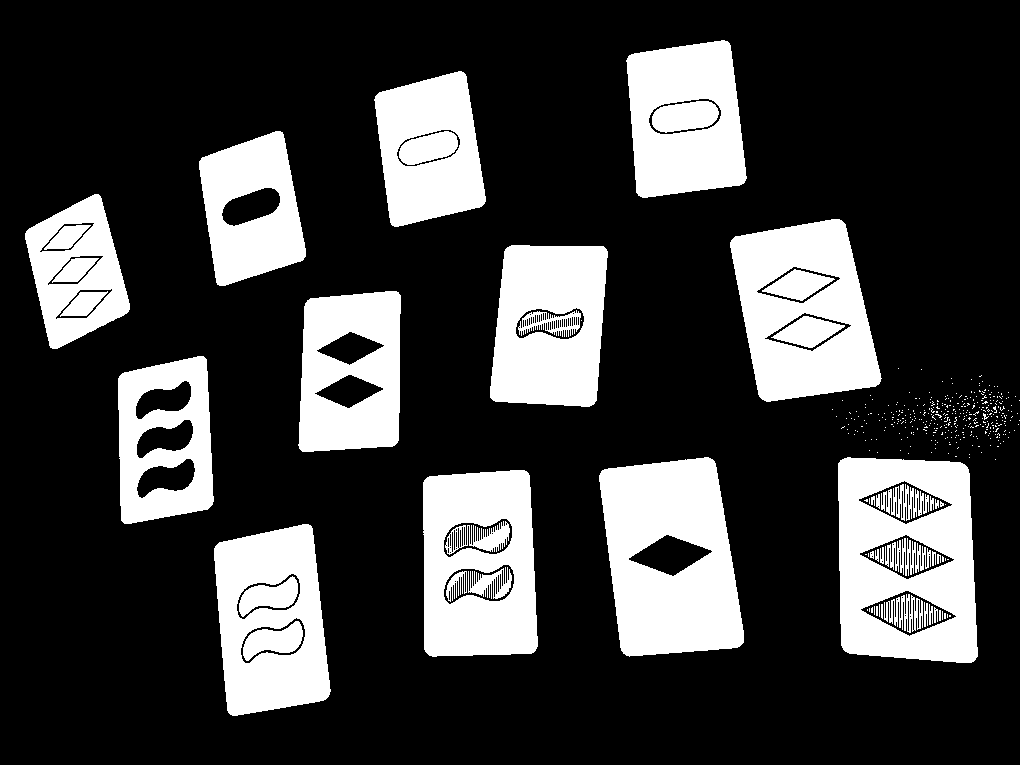
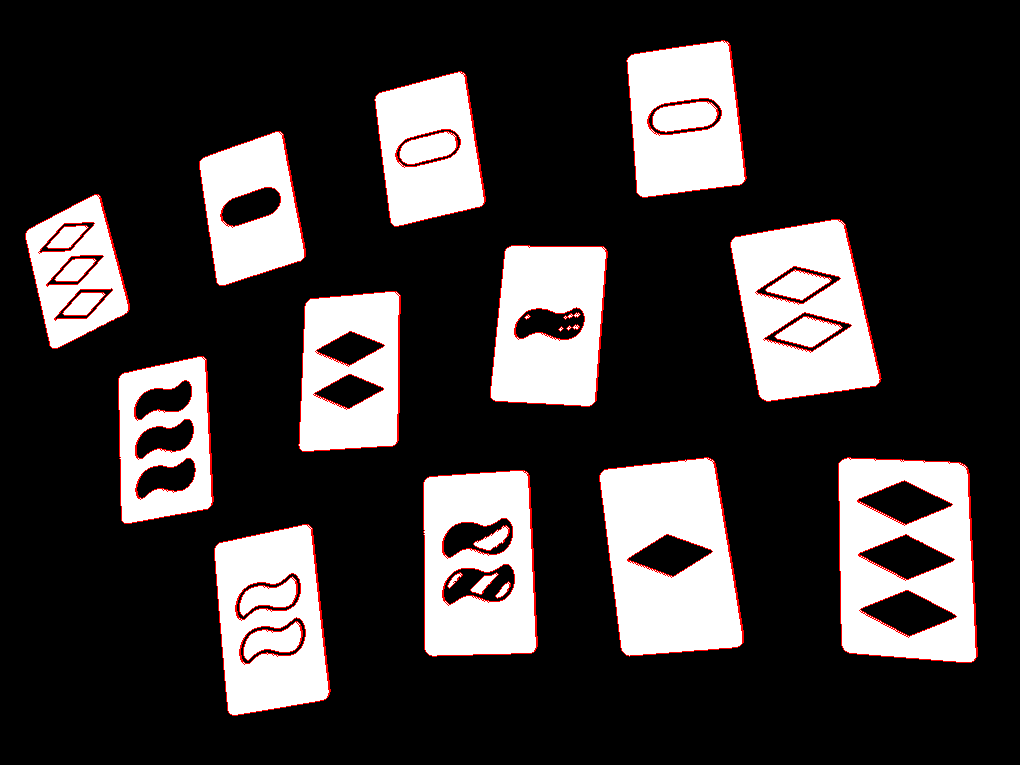
contour stuff

diff --git a/src/imageops/contour.rs b/src/imageops/contour.rs
@@ -1,4 +1,4 @@
-use image::GrayImage;
+use image::{DynamicImage, GrayImage, RgbaImage};
 
 use super::binarize::BinaryImage;
 
@@ -9,11 +9,18 @@ pub struct Contour {
 pub struct Moments;
 
 pub trait ContourExt {
-    fn find_contours(&self) -> Vec<Contour>;
-    fn trace_contour(&self, x: u32, y: u32, internal: bool) -> Contour;
+    fn find_contours(&self) -> (Vec<Contour>, Vec<Contour>);
+    fn trace_contour(
+        &self,
+        output_img: &mut RgbaImage,
+        x: u32,
+        y: u32,
+        label: u32,
+        internal: bool,
+    ) -> Contour;
     fn handle_fg_pixel(
         &self,
-        output_img: &mut GrayImage,
+        output_img: &mut RgbaImage,
         x: u32,
         y: u32,
         label: &mut u32,
@@ -22,7 +29,7 @@ pub trait ContourExt {
     );
     fn handle_bg_pixel(
         &self,
-        output_img: &mut GrayImage,
+        output_img: &mut RgbaImage,
         x: u32,
         y: u32,
         label: &mut u32,
@@ -39,19 +46,25 @@ pub trait ContourExt {
 }
 
 impl ContourExt for BinaryImage {
-    fn find_contours(&self) -> Vec<Contour> {
+    /// (inner, outer)
+    fn find_contours(&self) -> (Vec<Contour>, Vec<Contour>) {
         let img: &image::ImageBuffer<image::Luma<u8>, Vec<u8>> = &self.0;
-        let mut output_img = self.0.clone();
+        // let mut output_img = self.0.clone();
+        // output_img.pixels_mut().for_each(|x| {
+        //     *x = image::Luma([0]);
+        // });
+
+        let mut output_img = DynamicImage::ImageLuma8(self.0.clone()).to_rgba8();
         output_img.pixels_mut().for_each(|x| {
-            *x = image::Luma([0]);
+            *x = image::Rgba([0, 0, 0, 0]);
         });
-        
+
         let mut outer_contours = vec![];
         let mut inner_contours = vec![];
 
         let mut r = 1;
         for y in 0..img.dimensions().1 {
-            let mut label = 50;
+            let mut label = 0;
             for x in 0..img.dimensions().0 {
                 if img.get_pixel(x, y)[0] == 255 {
                     self.handle_fg_pixel(
@@ -70,12 +83,12 @@ impl ContourExt for BinaryImage {
 
         output_img.save("output.png").unwrap();
 
-        outer_contours
+        (inner_contours, outer_contours)
     }
 
     fn handle_fg_pixel<'a>(
         &self,
-        output_img: &mut GrayImage,
+        output_img: &mut RgbaImage,
         x: u32,
         y: u32,
         label: &'a mut u32,
@@ -83,38 +96,54 @@ impl ContourExt for BinaryImage {
         outer_contours: &'a mut Vec<Contour>,
     ) {
         if *label != 0 {
-            output_img.put_pixel(x, y, image::Luma([*label as u8]))
+            output_img.put_pixel(
+                x,
+                y,
+                image::Rgba([*label as u8, *label as u8, *label as u8, 0]),
+            )
         } else {
             *label = output_img.get_pixel(x, y)[0] as u32;
             if *label == 0 {
                 // *r = (*r + 1) % 254 + 1;
                 *r = *r + 1;
                 *label = *r;
-                let contour = self.trace_contour(x, y, false);
+                let contour = self.trace_contour(output_img, x, y, *label, false); //label to connect contour to labeled image
                 outer_contours.push(contour);
-                output_img.put_pixel(x, y, image::Luma([*label as u8]))
+                // maybe doppelt gemoppelt
+                output_img.put_pixel(
+                    x,
+                    y,
+                    image::Rgba([*label as u8, *label as u8, *label as u8, 255]),
+                )
             }
         }
     }
 
     fn handle_bg_pixel(
         &self,
-        output_img: &mut GrayImage,
+        output_img: &mut RgbaImage,
         x: u32,
         y: u32,
         label: &mut u32,
         inner_contours: &mut Vec<Contour>,
     ) {
         if *label != 0 {
-            if output_img.get_pixel(x, y)[0] == 0 {
-                let contour = self.trace_contour(x.saturating_sub(1), y, true);
+            if output_img.get_pixel(x, y)[0] == 0 && output_img.get_pixel(x, y)[3] != 255 {
+                let contour = self.trace_contour(output_img, x.saturating_sub(1), y, *label, true);
                 inner_contours.push(contour);
             }
             *label = 0;
         }
     }
 
-    fn trace_contour(&self, x: u32, y: u32, internal: bool) -> Contour {
+    fn trace_contour(
+        &self,
+        output_img: &mut RgbaImage,
+        x: u32,
+        y: u32,
+        label: u32,
+        internal: bool,
+    ) -> Contour {
         let start = (x, y);
         let second = if let Some((x, y)) = self.tracer(x, y, (0, 0), true, internal) {
             (x, y)
@@ -126,15 +155,24 @@ impl ContourExt for BinaryImage {
 
         let mut points = vec![start, second];
         loop {
-            let cur = (points.last().unwrap().0, points.last().unwrap().1);
-            let prev = (points[points.len() - 2].0, points[points.len() - 2].1);
+            let cur = *points.last().unwrap();
+            let prev = points[points.len() - 2];
             let next = self.tracer(cur.0, cur.1, prev, false, internal);
             if let Some((x, y)) = next {
-                if cur == start && (x, y) == second {
+                if cur == start {
                     break;
                 }
 
+                // if cur == start && (x, y) == second {
+                //     break;
+                // } more triage needed
+
                 points.push((x, y));
+                output_img.put_pixel(
+                    x,
+                    y,
+                    image::Rgba([label as u8, label as u8, label as u8, 255]),
+                )
             }
         }
 
@@ -149,17 +187,17 @@ impl ContourExt for BinaryImage {
         start: bool,
         internal: bool,
     ) -> Option<(u32, u32)> {
-        let init_pos = if !start {
+        let init_index = if !start {
             let dif = (prev.0 as i32 - x as i32, prev.1 as i32 - y as i32);
             let d = match dif {
                 (1, 0) => 0,
-                (1, -1) => 1,
-                (0, -1) => 2,
-                (-1, -1) => 3,
+                (1, 1) => 1,
+                (0, 1) => 2,
+                (-1, 1) => 3,
                 (-1, 0) => 4,
-                (-1, 1) => 5,
-                (0, 1) => 6,
-                (1, 1) => 7,
+                (-1, -1) => 5,
+                (0, -1) => 6,
+                (1, -1) => 7,
                 _ => unreachable!(),
             };
 
@@ -172,20 +210,20 @@ impl ContourExt for BinaryImage {
             // (1, 1)
         };
 
-        let mut pos = init_pos;
+        let mut index = init_index;
         let x = x as i32;
         let y = y as i32;
         let img = &self.0;
         for _ in 0..8 {
-            let (dx, dy) = match pos {
+            let (dx, dy) = match index {
                 0 => (1, 0),
-                1 => (1, -1),
-                2 => (0, -1),
-                3 => (-1, -1),
+                1 => (1, 1),
+                2 => (0, 1),
+                3 => (-1, 1),
                 4 => (-1, 0),
-                5 => (-1, 1),
-                6 => (0, 1),
-                7 => (1, 1),
+                5 => (-1, -1),
+                6 => (0, -1),
+                7 => (1, -1),
                 _ => unreachable!(),
             };
 
@@ -201,7 +239,7 @@ impl ContourExt for BinaryImage {
                 }
             }
 
-            pos = (pos + 1) % 8;
+            index = (index + 1) % 8;
         }
 
         None

diff --git a/src/imageops/binarize.rs b/src/imageops/binarize.rs
@@ -20,14 +20,24 @@ impl BinaryImage {
         Ok(())
     }
 
-    pub fn draw_contours(&self, contours: Vec<Contour>) -> RgbImage {
+    pub fn draw_contours(
+        &self,
+        inner_contours: Vec<Contour>,
+        outer_contours: Vec<Contour>,
+    ) -> RgbImage {
         let mut out_img = DynamicImage::ImageLuma8(self.0.clone()).to_rgb8();
 
-        for contour in contours {
+        for contour in inner_contours {
             for (x, y) in contour.points {
                 out_img.put_pixel(x, y, image::Rgb([255, 0, 0]));
             }
         }
+
+        // for contour in outer_contours {
+        //     for (x, y) in contour.points {
+        //         out_img.put_pixel(x, y, image::Rgb([0, 0, 255]));
+        //     }
+        // }
 
         out_img
     }

diff --git a/examples/contour.rs b/examples/contour.rs
@@ -13,8 +13,7 @@ fn main() {
     let eroded_img = binary_img.erode(PLUS_FILTER, 2);
     let dilated_img = eroded_img.dilate(PLUS_FILTER, 2);
 
-    let contours = dilated_img.find_contours();
-    println!("Number of contours: {}", contours.len());
-    let contour_img = binary_img.draw_contours(contours);
+    let (inner_contours, outer_contours) = dilated_img.find_contours();
+    let contour_img = dilated_img.draw_contours(inner_contours, outer_contours);
     contour_img.save("test.png").unwrap();
 }
